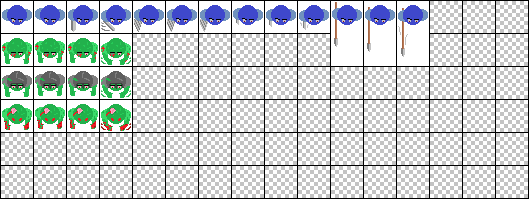
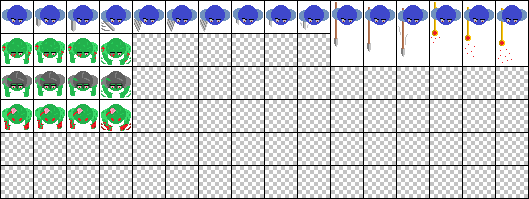
added staves (projectile using weapons)

Changed region(s): [[0.8166, 0.0, 0.9981, 0.3317], [0.0605, 0.0905, 0.0907, 0.1206]]

diff --git a/src/com/company/Items/Staves/Staff.java b/src/com/company/Items/Staves/Staff.java
@@ -1,0 +1,88 @@
+package com.company.Items.Staves;
+
+import com.company.Agent.PlayerCharacter.PlayerCharacter;
+import com.company.CaveExplorer;
+import com.company.Items.IUsableOnButtonPressed;
+import com.company.Items.Item;
+import com.company.Projectiles.DamagingProjectile;
+import com.company.Projectiles.Projectile;
+import javafx.animation.AnimationTimer;
+
+
+abstract public class Staff extends Item implements IUsableOnButtonPressed {
+
+    private double averageDamage;
+    private Class<? extends DamagingProjectile> projectileClass;
+
+    private void launchProjectile(){
+        try {
+            Projectile projectile = projectileClass.getDeclaredConstructor(double.class).newInstance(averageDamage);
+            projectile.initiateTravel(CaveExplorer.getPlayerCharacter(), CaveExplorer.getPlayerCharacter().getDirFacing());
+        } catch (Exception e){
+
+        }
+    }
+
+    // prevents staring another attack when the first one is in motion
+    private boolean castingInProgress = false;
+
+
+    @Override
+    public void usage(PlayerCharacter playerCharacter) {
+
+        castingInProgress = true;
+
+        AnimationTimer attack = new AnimationTimer() {
+
+            int USE_PHASES[] = new int[]{15,45,75};
+            int animationTime = 0;
+
+
+            @Override
+            public void handle(long now) {
+
+                playerCharacter.setLongViewSize();
+
+                castingInProgress = true;
+
+                if(animationTime <= USE_PHASES[0]){
+                    playerCharacter.buildStaffCastAppearance(0);
+                    // projectile is launched in the earlier stages of the attack
+                    if(animationTime == USE_PHASES[0]){
+                        launchProjectile();
+                    }
+
+                } else if(animationTime <= USE_PHASES[1]){
+                    playerCharacter.buildStaffCastAppearance(1);
+
+                } else if(animationTime <= USE_PHASES[2]) {
+
+                    playerCharacter.buildStaffCastAppearance(2);
+
+                    if(animationTime == USE_PHASES[2]){
+                        playerCharacter.setDefaultViewSize();
+                        playerCharacter.buildDefaultAppearance();
+                        animationTime = 0;
+                        castingInProgress = false;
+                        stop();
+                    }
+                }
+
+                animationTime++;
+            }
+        };
+        attack.start();
+    }
+
+    @Override
+    public boolean usageInProgress() {
+        return castingInProgress;
+    }
+
+    public Staff(Class<? extends DamagingProjectile> projectileClass, double averageDamage){
+        this.projectileClass = projectileClass;
+        this.averageDamage = averageDamage;
+    }
+
+
+}

diff --git a/src/com/company/Projectiles/Projectile.java b/src/com/company/Projectiles/Projectile.java
@@ -4,19 +4,17 @@ import com.company.Agent.Agent;
 import com.company.Agent.Monster.Monster;
 import com.company.CaveExplorer;
 import com.company.GameValues;
-import com.company.HUD.GameOverWindow;
 import com.company.MonsterSpawnerAndHandler;
 import com.company.Scenes.MainGameScene;
 import com.company.Tiles.Tile;
 import javafx.animation.AnimationTimer;
 import javafx.geometry.Rectangle2D;
-import javafx.scene.image.Image;
 import javafx.scene.image.ImageView;
 
 abstract public class Projectile extends ImageView {
 
-    // unchangeable direction
-    private final Agent.MOVE_DIR PROJECTILE_DIR;
+    // direction of travel
+    private Agent.MOVE_DIR projectileDir;
 
     // projectile's speed in tiles/animation
     private double travelSpeed;
@@ -66,6 +64,9 @@ abstract public class Projectile extends ImageView {
     protected boolean ignoresMonsters;
     private Agent originAgent = null;
     private boolean collisionWithAgentDetected(){
+
+        // needs to be updated to a ~roundTile comparison, otherwise a projectile can pass through
+        // legal target when meeting it near the edge of a tile TODO
         if(!ignoresMonsters){
             for(Monster monster : MonsterSpawnerAndHandler.getActiveMonsters()){
                 if(roundTileY() == monster.roundTileY() && roundTileX() == monster.roundTileX()){
@@ -122,7 +123,7 @@ abstract public class Projectile extends ImageView {
             }
 
             // travel (if not finalized)
-            travel(PROJECTILE_DIR);
+            travel(projectileDir);
 
 
             // appearance
@@ -144,7 +145,8 @@ abstract public class Projectile extends ImageView {
     };
 
 
-    public void initiateTravel(Agent origin){
+    public void initiateTravel(Agent origin, Agent.MOVE_DIR move_dir){
+        projectileDir = move_dir;
         double x = GameValues.getTileSideLength()*(origin.getTileX()+0.5)-getFitWidth()/2;
         double y = GameValues.getTileSideLength()*(origin.getTileY()+0.5)-getFitHeight()/2;
         relocate(x,y);
@@ -179,8 +181,7 @@ abstract public class Projectile extends ImageView {
 
 
     // constructor
-    public Projectile(Agent.MOVE_DIR move_dir, double travelSpeed, double maxTravelDistance){
-        PROJECTILE_DIR = move_dir;
+    public Projectile(double travelSpeed, double maxTravelDistance){
         this.travelSpeed = travelSpeed;
         this.maxTravelDistance = maxTravelDistance;
         setProjectileAppearance();

diff --git a/src/com/company/Projectiles/DmgProjectile_Fire.java b/src/com/company/Projectiles/DmgProjectile_Fire.java
@@ -4,26 +4,27 @@ import com.company.Agent.Agent;
 import com.company.ImageBank;
 import com.company.Tiles.Tile;
 
-final public class DmgProjectile_SilverStaff extends DamagingProjectile {
+final public class DmgProjectile_Fire extends DamagingProjectile {
 
     @Override
     void setProjectileAppearance() {
         setImage(ImageBank.getProjectileTiles1());
         setFitWidth(32);
         setFitHeight(32);
-        viewport1 = buildViewportByGrid(0,0);
-        viewport2 = buildViewportByGrid(0,1);
-        viewport3 = buildViewportByGrid(0,2);
+        viewport1 = buildViewportByGrid(1,0);
+        viewport2 = buildViewportByGrid(1,1);
+        viewport3 = buildViewportByGrid(1,2);
     }
 
     @Override
     void collisionWithTileEffect(Tile tile) {
-        tile.takeDamage(0.3); // symbolic damage to tiles
+        tile.takeDamage(0.8); // noticeable damage to tiles
         finalizeTravel();
     }
 
-    public DmgProjectile_SilverStaff(Agent.MOVE_DIR move_dir){
-        super(move_dir, 0.12, 6, 15);
+
+    public DmgProjectile_Fire(double averageDamage){
+        super(0.15, 7, averageDamage);
         ignoresPlayer = true;
     }
 

diff --git a/src/com/company/Projectiles/DmgProjectile_Ice.java b/src/com/company/Projectiles/DmgProjectile_Ice.java
@@ -4,27 +4,26 @@ import com.company.Agent.Agent;
 import com.company.ImageBank;
 import com.company.Tiles.Tile;
 
-final public class DmgProjectile_GoldStaff extends DamagingProjectile {
+final public class DmgProjectile_Ice extends DamagingProjectile {
 
     @Override
     void setProjectileAppearance() {
         setImage(ImageBank.getProjectileTiles1());
         setFitWidth(32);
         setFitHeight(32);
-        viewport1 = buildViewportByGrid(1,0);
-        viewport2 = buildViewportByGrid(1,1);
-        viewport3 = buildViewportByGrid(1,2);
+        viewport1 = buildViewportByGrid(0,0);
+        viewport2 = buildViewportByGrid(0,1);
+        viewport3 = buildViewportByGrid(0,2);
     }
 
     @Override
     void collisionWithTileEffect(Tile tile) {
-        tile.takeDamage(0.8); // noticeable damage to tiles
+        tile.takeDamage(0.3); // symbolic damage to tiles
         finalizeTravel();
     }
 
-
-    public DmgProjectile_GoldStaff(Agent.MOVE_DIR move_dir){
-        super(move_dir, 0.15, 7, 20);
+    public DmgProjectile_Ice(double averageDamage){
+        super(0.12, 6, averageDamage);
         ignoresPlayer = true;
     }
 

diff --git a/src/com/company/Items/ItemTypes.java b/src/com/company/Items/ItemTypes.java
@@ -1,5 +1,6 @@
 package com.company.Items;
 
+import com.company.HUD.GameOverWindow;
 import com.company.Items.BlockPlacers.Trowel;
 import com.company.Items.Daggers.BloodRubyDagger;
 import com.company.Items.Daggers.CobaltDagger;
@@ -17,6 +18,9 @@ import com.company.Items.Spears.BloodRubySpear;
 import com.company.Items.Spears.CobaltSpear;
 import com.company.Items.Spears.CopperSpear;
 import com.company.Items.Spears.IronSpear;
+import com.company.Items.Staves.GoldStaff;
+import com.company.Items.Staves.PlatinumStaff;
+import com.company.Items.Staves.SilverStaff;
 import com.company.Items.Swords.BloodRubySword;
 import com.company.Items.Swords.CobaltSword;
 import com.company.Items.Swords.CopperSword;
@@ -80,6 +84,9 @@ final public class ItemTypes {
         getItemTypeMap().put(24, ElixirOfStoneSkin.class);
         getItemTypeMap().put(25, Workshop.class);
         getItemTypeMap().put(26, AlchemyLab.class);
+        getItemTypeMap().put(27, SilverStaff.class);
+        getItemTypeMap().put(28, GoldStaff.class);
+        getItemTypeMap().put(29, PlatinumStaff.class);
 
 
     }

diff --git a/src/com/company/Agent/PlayerCharacter/PlayerInventory.java b/src/com/company/Agent/PlayerCharacter/PlayerInventory.java
@@ -4,6 +4,9 @@ import com.company.Items.Daggers.CopperDagger;
 import com.company.Items.Drills.CopperDrill;
 import com.company.Items.Item;
 import com.company.Items.PotionsAndElixirs.PotionOfHealing;
+import com.company.Items.Staves.GoldStaff;
+import com.company.Items.Staves.PlatinumStaff;
+import com.company.Items.Staves.SilverStaff;
 import com.company.Resources.Resource;
 import com.company.Resources.ResourceType;
 import com.company.Scenes.MainGameScene;
@@ -121,6 +124,9 @@ public class PlayerInventory {
         itemsInInventory[0][5] = new CopperDrill();
         itemsInInventory[1][5] = new CopperDagger();
         itemsInInventory[0][0] = new PotionOfHealing();
+        itemsInInventory[1][0] = new SilverStaff();
+        itemsInInventory[2][0] = new GoldStaff();
+        itemsInInventory[3][0] = new PlatinumStaff();
     }
 
 

diff --git a/src/com/company/Projectiles/DmgProjectile_Force.java b/src/com/company/Projectiles/DmgProjectile_Force.java
@@ -4,7 +4,7 @@ import com.company.Agent.Agent;
 import com.company.ImageBank;
 import com.company.Tiles.Tile;
 
-final public class DmgProjectile_PlatinumStaff extends DamagingProjectile {
+final public class DmgProjectile_Force extends DamagingProjectile {
 
     @Override
     void setProjectileAppearance() {
@@ -21,8 +21,8 @@ final public class DmgProjectile_PlatinumStaff extends DamagingProjectile {
         tile.takeDamage(0.05); // constant damage as the projectile passes through tiles
     }
 
-    public DmgProjectile_PlatinumStaff(Agent.MOVE_DIR move_dir){
-        super(move_dir, 0.10, 8, 25);
+    public DmgProjectile_Force(double averageDamage){
+        super(0.10, 8, averageDamage);
         ignoresPlayer = true;
     }
 

diff --git a/src/com/company/Items/Daggers/Dagger.java b/src/com/company/Items/Daggers/Dagger.java
@@ -2,7 +2,6 @@ package com.company.Items.Daggers;
 
 import com.company.Agent.Monster.Monster;
 import com.company.Agent.PlayerCharacter.PlayerCharacter;
-import com.company.ImageBank;
 import com.company.Items.IUsableOnButtonPressed;
 import com.company.Items.Item;
 import com.company.MonsterSpawnerAndHandler;
@@ -44,7 +43,6 @@ abstract public class Dagger extends Item implements IUsableOnButtonPressed {
                     playerCharacter.buildDaggerAttackAppearance(2);
 
                     if(animationTime == USE_PHASES[2]){
-
 
                         // damage EVERY enemy within effective range
                         double x = playerCharacter.getTileX();

diff --git a/src/com/company/Projectiles/DamagingProjectile.java b/src/com/company/Projectiles/DamagingProjectile.java
@@ -20,8 +20,8 @@ abstract public class DamagingProjectile extends Projectile {
 
 
 
-    public DamagingProjectile(Agent.MOVE_DIR move_dir, double travelSpeed, double maxTravelDistance, double averageDamage){
-        super(move_dir, travelSpeed, maxTravelDistance);
+    public DamagingProjectile(double travelSpeed, double maxTravelDistance, double averageDamage){
+        super(travelSpeed, maxTravelDistance);
         this.averageDamage = averageDamage;
     }
 }

diff --git a/src/com/company/Items/Staves/PlatinumStaff.java b/src/com/company/Items/Staves/PlatinumStaff.java
@@ -1,0 +1,12 @@
+package com.company.Items.Staves;
+
+import com.company.ImageBank;
+import com.company.Projectiles.DmgProjectile_Force;
+
+final public class PlatinumStaff extends Staff {
+    public PlatinumStaff() {
+        super(DmgProjectile_Force.class, 21);
+        setName("Platinum Staff");
+        setImage(ImageBank.getItemTiles1(), 6, 2);
+    }
+}

diff --git a/src/com/company/Items/Staves/SilverStaff.java b/src/com/company/Items/Staves/SilverStaff.java
@@ -1,0 +1,13 @@
+package com.company.Items.Staves;
+
+import com.company.ImageBank;
+import com.company.Projectiles.DmgProjectile_Ice;
+
+final public class SilverStaff extends Staff {
+
+    public SilverStaff(){
+        super(DmgProjectile_Ice.class,15);
+        setName("Silver Staff");
+        setImage(ImageBank.getItemTiles1(),6,0);
+    }
+}

diff --git a/src/com/company/Items/Staves/GoldStaff.java b/src/com/company/Items/Staves/GoldStaff.java
@@ -1,0 +1,12 @@
+package com.company.Items.Staves;
+
+import com.company.ImageBank;
+import com.company.Projectiles.DmgProjectile_Fire;
+
+final public class GoldStaff extends Staff {
+    public GoldStaff(){
+        super(DmgProjectile_Fire.class,18);
+        setName("Gold Staff");
+        setImage(ImageBank.getItemTiles1(),6,1);
+    }
+}
